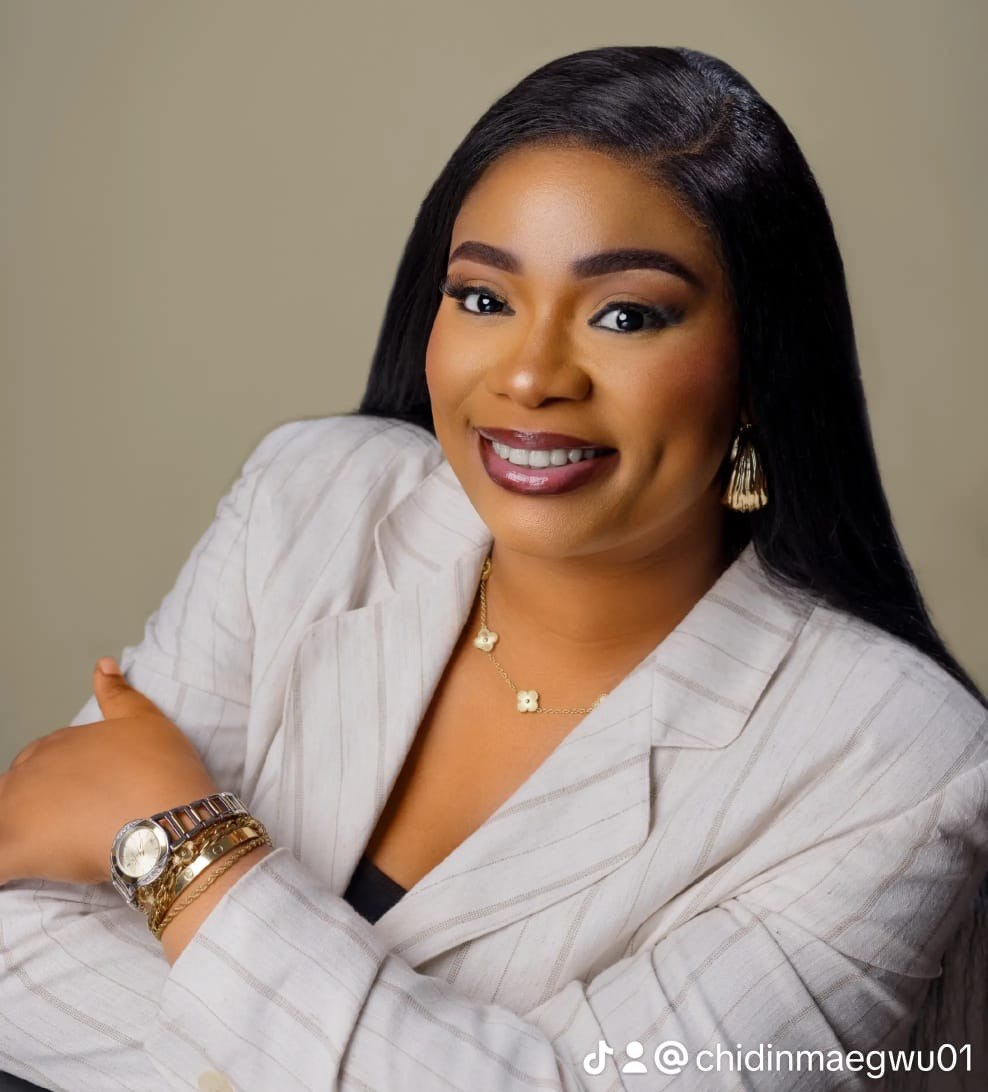
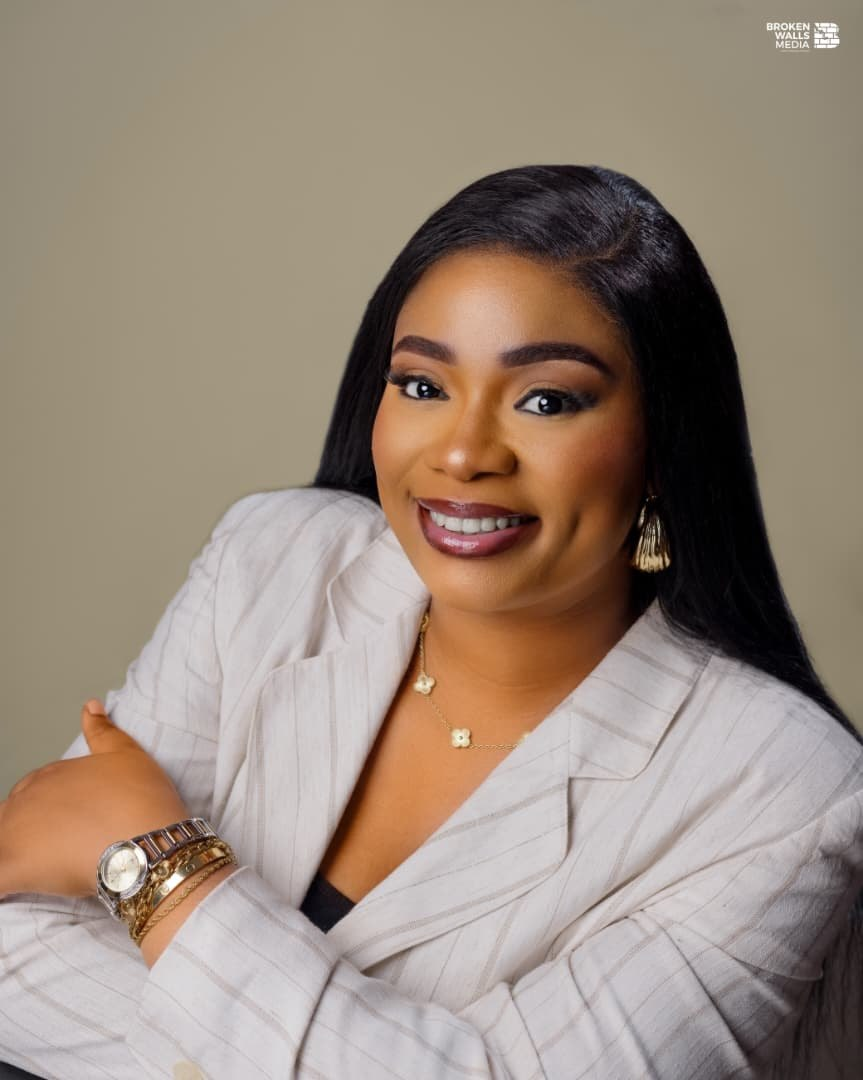
update profiles

diff --git a/components/Footer.jsx b/components/Footer.jsx
@@ -1,14 +1,13 @@
-import React from 'react';
+import React from "react";
 import Image from "next/image";
 import Link from "next/link";
-import { Linkedin, Twitter, Instagram } from 'lucide-react';
+import { Linkedin, Twitter, Instagram } from "lucide-react";
 
 export const Footer = () => {
   return (
     <footer className="bg-[#3c144c] text-slate-400 py-16 border-t border-white text-sm">
       <div className="container mx-auto px-4 md:px-8">
         <div className="grid md:grid-cols-4 gap-12 mb-16">
-
           {/* Brand Column */}
           <div className="md:col-span-1">
             <Link href="/" className="block mb-6">
@@ -25,52 +24,162 @@ export const Footer = () => {
               Delivering precise, business-minded legal solutions for local and international clients when stakes are high.
             </p> */}
             <div className="flex gap-4">
-              <a href="https://www.linkedin.com/company/c-egwu-law-firm/" target="_blank" className="p-2 bg-white text-amber-600 hover:bg-amber-600 hover:text-white transition-colors flex items-center justify-center"><Linkedin size={18} /></a>
-              <a href="https://x.com/firm_c30532?t=gyUPdp-Q56CLxLdoxO2Q8Q&s=08" target="_blank" className="p-2 bg-white text-amber-600 hover:bg-amber-600 hover:text-white transition-colors flex items-center justify-center"><Twitter size={18} /></a>
-              <a href="https://www.instagram.com/cegwu_law" target="_blank" className="p-2 bg-white text-amber-600 hover:bg-amber-600 hover:text-white transition-colors flex items-center justify-center"><Instagram size={18} /></a>
+              <a
+                href="https://www.linkedin.com/company/c-egwu-law-firm/"
+                target="_blank"
+                className="p-2 bg-white text-amber-600 hover:bg-amber-600 hover:text-white transition-colors flex items-center justify-center"
+              >
+                <Linkedin size={18} />
+              </a>
+              <a
+                href="https://x.com/firm_c30532?t=gyUPdp-Q56CLxLdoxO2Q8Q&s=08"
+                target="_blank"
+                className="p-2 bg-white text-amber-600 hover:bg-amber-600 hover:text-white transition-colors flex items-center justify-center"
+              >
+                <Twitter size={18} />
+              </a>
+              <a
+                href="https://www.instagram.com/cegwu_law"
+                target="_blank"
+                className="p-2 bg-white text-amber-600 hover:bg-amber-600 hover:text-white transition-colors flex items-center justify-center"
+              >
+                <Instagram size={18} />
+              </a>
             </div>
           </div>
 
           {/* Links Column */}
           <div>
-            <h4 className="text-white font-bold uppercase tracking-widest mb-6">Firm</h4>
+            <h4 className="text-white font-bold uppercase tracking-widest mb-6">
+              Firm
+            </h4>
             <ul className="space-y-4">
               {/* <li><Link href="/about" className="hover:text-amber-500 transition-colors">About Us</Link></li> */}
-              <li><Link href="/team" className="hover:text-amber-500 transition-colors">Our Team</Link></li>
-              <li><Link href="/careers" className="hover:text-amber-500 transition-colors">Careers</Link></li>
-              <li><Link href="/contact" className="hover:text-amber-500 transition-colors">Contact</Link></li>
-              <li><Link href="/articles" className="hover:text-amber-500 transition-colors">Articles</Link></li>
+              <li>
+                <Link
+                  href="/team"
+                  className="hover:text-amber-500 transition-colors"
+                >
+                  Our Team
+                </Link>
+              </li>
+              <li>
+                <Link
+                  href="/careers"
+                  className="hover:text-amber-500 transition-colors"
+                >
+                  Careers
+                </Link>
+              </li>
+              <li>
+                <Link
+                  href="/contact"
+                  className="hover:text-amber-500 transition-colors"
+                >
+                  Contact
+                </Link>
+              </li>
+              <li>
+                <Link
+                  href="/articles"
+                  className="hover:text-amber-500 transition-colors"
+                >
+                  Articles
+                </Link>
+              </li>
             </ul>
           </div>
 
           {/* Practice Areas Column */}
           <div>
-            <h4 className="text-white font-bold uppercase tracking-widest mb-6">Practice</h4>
+            <h4 className="text-white font-bold uppercase tracking-widest mb-6">
+              Practice
+            </h4>
             <ul className="space-y-4">
-              <li><Link href="/practice-areas" className="hover:text-amber-500 transition-colors">Corporate Law</Link></li>
-              <li><Link href="/practice-areas" className="hover:text-amber-500 transition-colors">Technology & Media Law</Link></li>
-              <li><Link href="/practice-areas" className="hover:text-amber-500 transition-colors">Intellectual Property</Link></li>
-              <li><Link href="/practice-areas" className="hover:text-amber-500 transition-colors">Employment & Labour Law</Link></li>
-              <li><Link href="/practice-areas" className="hover:text-amber-500 transition-colors">Private Wealth (Family Law, Wills, Tax & Estate Planning)</Link></li>
+              <li>
+                <Link
+                  href="/practice-areas"
+                  className="hover:text-amber-500 transition-colors"
+                >
+                  Corporate Law
+                </Link>
+              </li>
+              <li>
+                <Link
+                  href="/practice-areas"
+                  className="hover:text-amber-500 transition-colors"
+                >
+                  Technology & Media Law
+                </Link>
+              </li>
+              <li>
+                <Link
+                  href="/practice-areas"
+                  className="hover:text-amber-500 transition-colors"
+                >
+                  Intellectual Property
+                </Link>
+              </li>
+              <li>
+                <Link
+                  href="/practice-areas"
+                  className="hover:text-amber-500 transition-colors"
+                >
+                  Employment & Labour Law
+                </Link>
+              </li>
+              <li>
+                <Link
+                  href="/practice-areas"
+                  className="hover:text-amber-500 transition-colors"
+                >
+                  Private Wealth (Family Law, Wills, Tax & Estate Planning)
+                </Link>
+              </li>
+              <li>
+                <Link
+                  href="/practice-areas"
+                  className="hover:text-amber-500 transition-colors"
+                >
+                  Corporate Nominee Services
+                </Link>
+              </li>
             </ul>
           </div>
-
           {/* Newsletter / Contact Column */}
           <div>
-            <h4 className="text-white font-bold uppercase tracking-widest mb-6">Newsletter</h4>
+            <h4 className="text-white font-bold uppercase tracking-widest mb-6">
+              Newsletter
+            </h4>
             <p className="mb-4">Subscribe for legal updates and firm news.</p>
             <div className="flex">
-              <input type="email" placeholder="Email Address" className="bg-slate-900 border-none outline-none px-4 py-2 w-full text-white placeholder-slate-600" />
-              <button className="bg-amber-600 text-white px-4 hover:bg-amber-700 transition-colors">Join</button>
+              <input
+                type="email"
+                placeholder="Email Address"
+                className="bg-slate-900 border-none outline-none px-4 py-2 w-full text-white placeholder-slate-600"
+              />
+              <button className="bg-amber-600 text-white px-4 hover:bg-amber-700 transition-colors">
+                Join
+              </button>
             </div>
           </div>
         </div>
 
         <div className="border-t border-white pt-8 flex flex-col md:flex-row justify-between items-center gap-4">
-          <p>&copy; {new Date().getFullYear()} C. Egwu Law Firm. All rights reserved.</p>
+          <p>
+            &copy; {new Date().getFullYear()} C. Egwu Law Firm. All rights
+            reserved.
+          </p>
           <div className="flex gap-6">
-            <Link href="/privacy" className="hover:text-white transition-colors">Privacy Policy</Link>
-            <Link href="/terms" className="hover:text-white transition-colors">Terms of Service</Link>
+            <Link
+              href="/privacy"
+              className="hover:text-white transition-colors"
+            >
+              Privacy Policy
+            </Link>
+            <Link href="/terms" className="hover:text-white transition-colors">
+              Terms of Service
+            </Link>
           </div>
         </div>
       </div>

diff --git a/lib/data/team.js b/lib/data/team.js
@@ -4,7 +4,7 @@ export const teamMembers = [
     slug: "chidinma-egwu",
     name: "Chidinma Egwu",
     role: "Principal Counsel",
-    credentials: "LL.B, B.L, LL.M",
+    credentials: "LLB, BL, LLM",
     image: "/chidinma2.jpg",
     shortBio:
       "Advises businesses on corporate governance, M&A, IP, and tech law. Her practice spans technology, media, real estate, and professional services.",
@@ -20,29 +20,29 @@ practical, commercially oriented legal solutions tailored to each client’s obj
     practiceAreas: [
       "Corporate Governance & Corporate Law",
       "Technology & Media Law",
-      "Intellectual",
+      "Intellectual Property",
       "Tax",
       "Dispute Resolution",
-      "Private",
+      "Private Wealth",
     ],
     education: [
       {
-        degree: "Master of Laws (LL.M)",
+        degree: "Master of Laws (LLM)",
         institution: "University of East London",
       },
       {
-        degree: "Barrister at Law (B.L)",
+        degree: "Barrister at Law (BL)",
         institution: "Nigerian Law School(Lagos)",
       },
       {
-        degree: "Bachelor of Laws (LL.B)",
+        degree: "Bachelor of Laws (LLB)",
         institution: "Anambra State University",
       },
     ],
     admissions: ["Nigerian Bar Association (NBA)"],
     languages: ["English", "Igbo"],
-    email: "[email redacted]",
-    linkedin: "https://linkedin.com/in/chidinmaegwu",
+    email: "[email redacted]",
+    linkedin: "https://www.linkedin.com/in/egwu-chidinma-llb-bl-llm-269283168",
     phone: "+234 707 167 4471",
     work: [
       "Advising a fast-rising media company on a comprehensive corporate restructuring, including share reorganisation, overhaul of governance documentation, preparation of regulatory filings, and negotiation of stakeholder agreements.",
@@ -71,7 +71,7 @@ practical, commercially oriented legal solutions tailored to each client’s obj
     slug: "kingsley-ekwesianya",
     name: "Kingsley Chukwujekwu Ekwesianya",
     role: "Managing Associate",
-    credentials: "LL.B, B.L (Hons)",
+    credentials: "LLB, BL (Hons)",
     image: "/kingsley.jpg",
     shortBio:
       "Versatile dispute resolution professional. Known for meticulous case preparation and clear advocacy in civil, commercial, and criminal litigation.",
@@ -98,18 +98,18 @@ areas of modern legal practice.`,
     ],
     education: [
       {
-        degree: "Barrister at Law (B.L)",
+        degree: "Barrister at Law (BL)",
         institution: "Nigerian Law School",
       },
       {
-        degree: "Bachelor of Laws (LL.B) Honours",
+        degree: "Bachelor of Laws (LLB) Honours",
         institution: "Chuwkwuemeka Odumegwu Ojukwu University",
       },
     ],
     admissions: ["Nigerian Bar Association (NBA)"],
     languages: ["English", "Igbo"],
     email: "[email redacted]",
-    linkedin: "https://linkedin.com/in/kingsleyekwesianya",
+    linkedin: "https://www.linkedin.com/in/kingsley-ekwesianya-811a0b246",
     phone: "+234 803 195 3493",
     work: [
       "Representing an indigenous manufacturing company in a multi-million-naira contract enforcement action, including handling originating processes, interlocutory applications, and settlement negotiations that preserved core commercial interests.",
@@ -124,7 +124,7 @@ areas of modern legal practice.`,
     slug: "busola-ayoola",
     name: "Oluwabusola Ayoola",
     role: "Associate",
-    credentials: "LL.B, B.L, LL.M",
+    credentials: "LLB, BL, LLM",
     image: "/busola.jpg",
     shortBio:
       "She brings a strategic and detail-oriented approach to legal practice, delivering practical and effective solutions across a range of matters.",
@@ -138,15 +138,15 @@ areas of modern legal practice.`,
     ],
     education: [
       {
-        degree: "Master of Laws (LL.M) - Distinction",
+        degree: "Master of Laws (LLM) - Distinction",
         institution: "University of Ottawa",
       },
       {
-        degree: "Barrister at Law (B.L) - First Class Honours ",
+        degree: "Barrister at Law (BL) - First Class Honours ",
         institution: "Nigerian Law School",
       },
       {
-        degree: "Bachelor of Laws (LL.B) - First Class Honours",
+        degree: "Bachelor of Laws (LLB) - First Class Honours",
         institution: "Osun State University",
       },
     ],